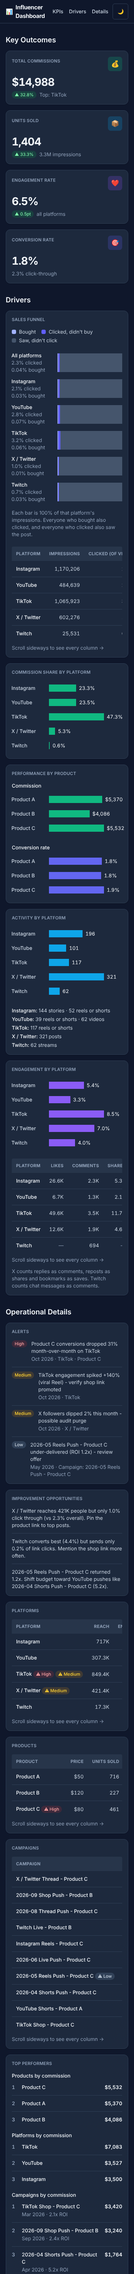
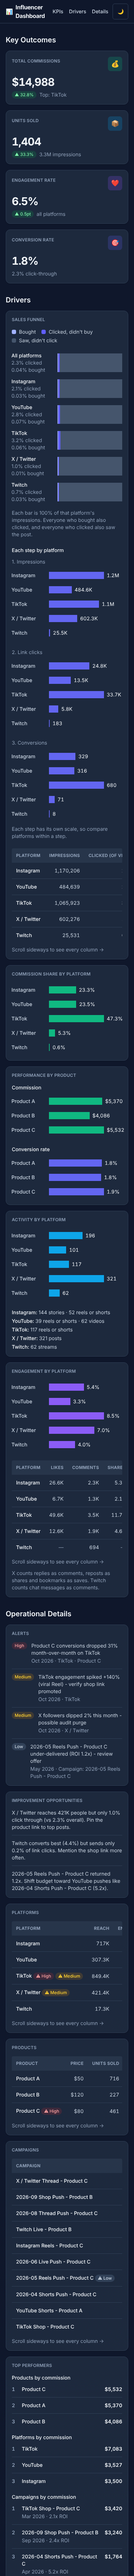
Keep the per-step platform charts under the stacked funnel
The 100% stacked bars show each platform's own drop-off; the per-step
charts underneath compare platforms at each step.

Claude-Session: https://claude.ai/code/session_018vAGCnrhPDK2QZmrSrs5ox

diff --git a/app.js b/app.js
@@ -286,7 +286,8 @@
 
   // 100% stacked bars: every impression ends in exactly one segment (bought,
   // clicked but didn't buy, saw but didn't click). Rows: [{ label, sub, mix }],
-  // where mix is a derived.funnelMix entry and sub is the muted lines under the label. Then a legend and a step-rate table.
+  // where mix is a derived.funnelMix entry and sub is the muted lines under the label.
+  // byPlatform: [{ subtitle, caption, rows }], one bar chart per step. Then a legend and a step-rate table.
   function funnel(opts) {
     var node = card(opts.title);
     var segments = [
@@ -338,6 +339,18 @@
     node.appendChild(wrap);
 
     node.appendChild(el("p", "mt-3 text-sm " + T.muted, "Each bar is 100% of that platform's impressions. Everyone who bought also clicked, and everyone who clicked also saw the post."));
+
+    // Breakouts: the same steps compared across platforms, one chart per step.
+    node.appendChild(el("p", "text-sm font-medium mt-6 mb-3 " + T.heading, "Each step by platform"));
+    var grid = el("div", "grid gap-6 lg:grid-cols-3");
+    opts.byPlatform.forEach(function (stage) {
+      var col = el("div", "min-w-0");
+      col.appendChild(el("p", "text-sm mb-2 " + T.muted, stage.subtitle));
+      col.appendChild(chartTable({ caption: stage.caption, color: ACCENT.performance.color, rows: stage.rows }));
+      grid.appendChild(col);
+    });
+    node.appendChild(grid);
+    node.appendChild(el("p", "mt-3 text-sm " + T.muted, "Each step has its own scale, so compare platforms within a step."));
 
     var rates = table(opts.rates);
     rates.className += " mt-6";
@@ -438,6 +451,19 @@
           label: p.name,
           mix: mix,
           sub: [share(mix.clickedPct) + " clicked", share(mix.boughtPct) + " bought"]
+        };
+      }),
+      byPlatform: [
+        { key: "impressions", subtitle: "1. Impressions", caption: "Impressions per platform" },
+        { key: "linkClicks", subtitle: "2. Link clicks", caption: "Link clicks per platform" },
+        { key: "conversions", subtitle: "3. Conversions", caption: "Conversions per platform" }
+      ].map(function (stage) {
+        return {
+          subtitle: stage.subtitle,
+          caption: stage.caption,
+          rows: DATA.platforms.map(function (p) {
+            return { label: p.name, value: p[stage.key], display: stage.key === "conversions" ? count(p[stage.key]) : compact(p[stage.key]) };
+          })
         };
       }),
       rates: {

diff --git a/resources/design-spec.md b/resources/design-spec.md
@@ -139,7 +139,7 @@ Each component is **one render function in `app.js`**. Never hand-copy a compone
 | `barChart({title, ...})` options | `charts: [...]` stacks several charts under their own subtitles (used for product commission + conversion rate); `table` adds a breakdown table under the chart; `breakdown` adds a "Label: detail" list; `note` adds a muted footnote |
 | `table({columns, rows})` | Table inside a focusable `overflow-x-auto` region: `w-full text-sm`; header row as tokens; `th`/`td` `px-3 py-3 whitespace-nowrap`; numeric columns `text-right tabular-nums`. A cell `{text, className, alerts}` shows `alertMarker()`s after its text. When columns overflow, a muted "Scroll sideways" hint appears under it |
 | `dataTable({title, columns, rows})` | `table()` inside a full-width `card()` (`lg:col-span-2`) |
-| `funnel({title, caption, rows, rates})` | Legend, then a Charts.css `bar multiple stacked` chart: one 100% bar for all platforms and one per platform, split into bought / clicked, didn't buy / saw, didn't click (shares of impressions from `derived.funnelMix`). Each row label shows the name plus "2.3% clicked" and "0.04% bought" lines (`--labels-size: 8rem`, rows `min-h-18`). Segments carry a `title` and screen-reader text. Then a muted note that each bar is 100% of impressions, and a `table()` of step rates and raw counts |
+| `funnel({title, caption, rows, byPlatform, rates})` | Legend, then a Charts.css `bar multiple stacked` chart: one 100% bar for all platforms and one per platform, split into bought / clicked, didn't buy / saw, didn't click (shares of impressions from `derived.funnelMix`). Each row label shows the name plus "2.3% clicked" and "0.04% bought" lines (`--labels-size: 8rem`, rows `min-h-18`). Segments carry a `title` and screen-reader text. Then a muted note that each bar is 100% of impressions; "Each step by platform": one bar chart per step (`lg:grid-cols-3`, each on its own scale, with a note saying so); and a `table()` of step rates and raw counts |
 | `severityBadge(severity)` / `alertMarker(alert)` | Alert severity pill (§3). The marker adds ⚠, `role="img"` and an `aria-label` with the alert message, and sits next to the related table row |
 | `listCard({title, items, ordered})` / `list(...)` | Divided list; each item has an optional badge, text, muted meta line and right-aligned value. `ordered` numbers the items |
 
@@ -178,7 +178,7 @@ Built from `resources/brief.md`. Items marked "No" are deliberately left out; do
 | KPIs | Performance | Yes | Card 4: conversion rate (conversions ÷ link clicks); sub-line: CTR |
 | KPIs | Efficiency | Partly | No card. ROI and cost per conversion appear in the tables. |
 | KPIs | Retention, Satisfaction | No | No data source for an affiliate influencer |
-| Drivers | Conversion by stage | Yes | Funnel: 100% stacked horizontal bars (all platforms, then each platform) split into bought / clicked but didn't buy / saw but didn't click, labelled with the clicked and bought shares, plus a step-rate table. Everyone who bought also clicked and saw, so each bar sums to 100% of impressions. The buying sliver is tiny; the labels give the numbers |
+| Drivers | Conversion by stage | Yes | Funnel: 100% stacked horizontal bars (all platforms, then each platform) split into bought / clicked but didn't buy / saw but didn't click, labelled with the clicked and bought shares; one bar chart per step comparing platforms; and a step-rate table. The stacked bars show each platform's own drop-off, the per-step charts compare platforms. Everyone who bought also clicked and saw, so each bar sums to 100% of impressions. The buying sliver is tiny; the labels give the numbers |
 | Drivers | Performance by platform | Yes | Bar chart: commission share per platform |
 | Drivers | Performance by product | Yes | Two bar charts in one card: commission (emerald) and conversion rate (indigo) per product |
 | Drivers | Activity | Yes | Bar chart of content pieces per platform (sky), with a "Platform: 144 stories · 52 reels or shorts" breakdown list |

diff --git a/resources/decisions.md b/resources/decisions.md
@@ -110,7 +110,7 @@
 ---
 
 ### [2026-10-20] Sales funnel as 100% stacked bars
-- **Decision**: Each platform (and "All platforms") gets one horizontal bar that is 100% of its impressions. The bar is split into bought, clicked but didn't buy, and saw but didn't click, using one indigo hue (darkest = furthest step) and neutral gray for "didn't click". `derived.funnelMix` holds the shares, which an invariant checks sum to 100. The step-rate table stays.
-- **Rationale**: mae's reference was a 100% stacked bar chart. The funnel steps are nested (a buyer also clicked and saw), so the three buckets partition impressions and a part-to-whole bar is truthful. One hue keeps the steps reading as an order, not as unrelated categories.
+- **Decision**: Each platform (and "All platforms") gets one horizontal bar that is 100% of its impressions. The bar is split into bought, clicked but didn't buy, and saw but didn't click, using one indigo hue (darkest = furthest step) and neutral gray for "didn't click". `derived.funnelMix` holds the shares, which an invariant checks sum to 100. The per-step "Each step by platform" charts and the step-rate table stay underneath.
+- **Rationale**: mae's reference was a 100% stacked bar chart. The funnel steps are nested (a buyer also clicked and saw), so the three buckets partition impressions and a part-to-whole bar is truthful. mae asked to keep the per-step charts: the stacked bars show the drop-off within each platform, the per-step charts compare platforms at each step. One hue keeps the steps reading as an order, not as unrelated categories.
 - **Alternatives considered**: linear bars per step (the previous version; replaced at mae's request); a zoomed bar of clicks only (not built yet: it would make the bought/clicked split easier to see, but the whole-funnel framing is what mae asked for).
 - **Status**: Accepted (2026-10-20).

diff --git a/memory-bank/current-status.md b/memory-bank/current-status.md
@@ -6,7 +6,7 @@
 
 - `index.html` + `app.js`: sticky nav with a dark/light toggle; 4 KPI cards (Commissions, Units sold, Engagement rate, Conversion rate); a Charts.css "commission share by platform" chart; the products table. All numbers come from `window.DATA`.
 - `data.js` generated by `scripts/generate-data.py` (seed 20261020, schema v1.0; invariant checks pass). It contains 3 products, 5 platforms, 10 campaigns, 10 monthly rows, 4 alerts, and derived rollups.
-- Drivers block (2026-10-20): sales funnel (full width: 100% stacked bars for all platforms and each platform, step-rate table), commission share by platform, performance by product (commission + conversion rate), activity by platform (with content-type breakdown), engagement by platform (with interactions table).
+- Drivers block (2026-10-20): sales funnel (full width: 100% stacked bars for all platforms and each platform, per-step charts by platform, step-rate table), commission share by platform, performance by product (commission + conversion rate), activity by platform (with content-type breakdown), engagement by platform (with interactions table).
 - Details block (2026-10-20): alerts list, improvement opportunities, platforms / products / campaigns tables with alert markers on the related rows, top performers. Checked at 375, 768, 1024 and 1440px in both themes: no console errors, no horizontal page scroll.
 - `derived` gained `activityByPlatform`, `interactionsByPlatform`, `rankings` and `opportunities`; X gained `postsCount`. Invariant checks cover them.
 - Docs consolidated (2026-10-20): `resources/design-spec.md` is the single spec. Superseded docs are in `archive/`.
